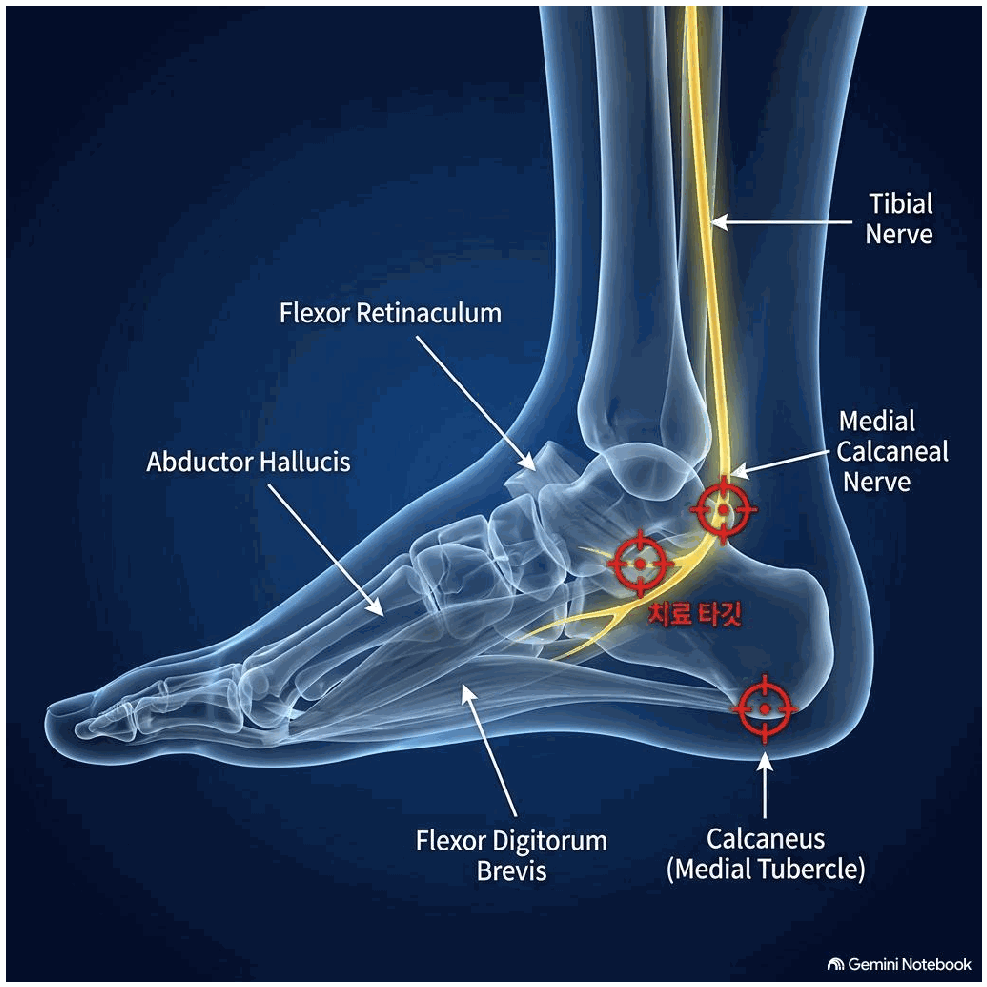
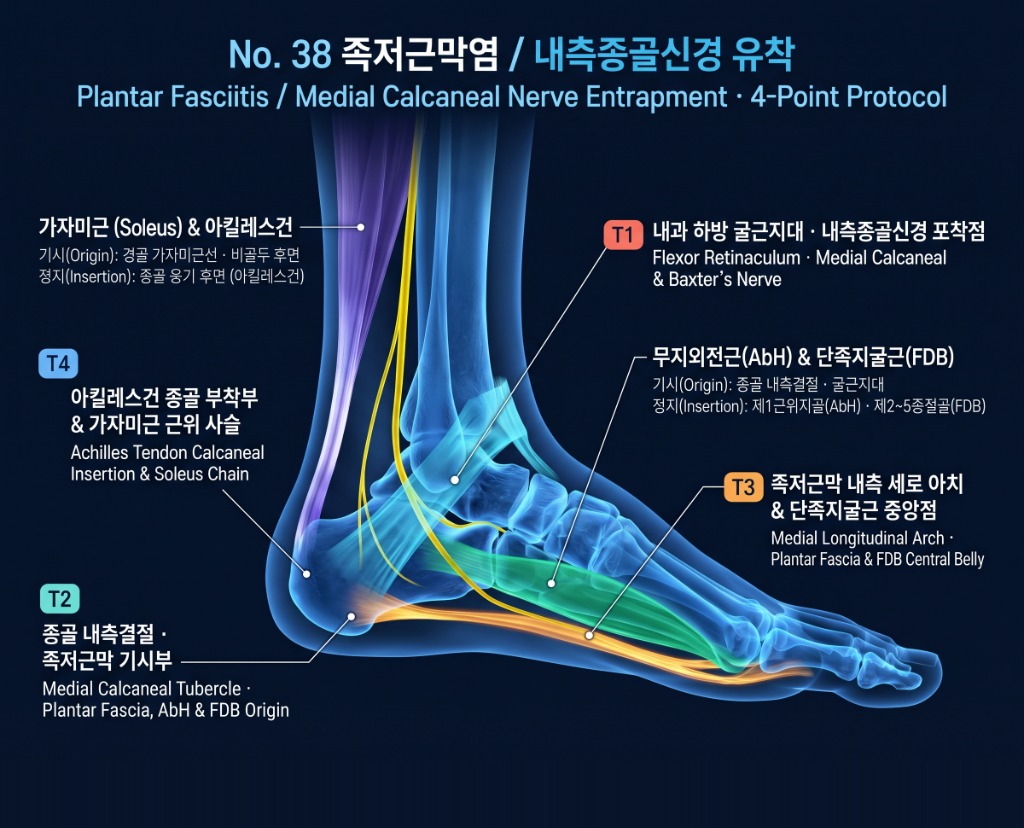
feat(healing-app): upgrade No.38 plantar fasciitis & medial calcaneal nerve plate and align T1-T4 pins

diff --git a/healing-app/js/pain_data.js b/healing-app/js/pain_data.js
@@ -4800,7 +4800,7 @@ window.PAIN_CONDITIONS = [
     ],
     "title": {
       "ko": "족저근막염 / 내측종골신경 유착",
-      "en": "Plantar Fasciitis / Medial Calcaneal Nerve Entrapment"
+      "en": "Plantar Fasciitis / Medial Calcaneal Nerve Entrapment (4-Point Protocol)"
     },
     "symptoms": {
       "ko": "아침에 자고 일어나 첫발 내딛을 때 발뒤꿈치 바닥에 전기 가 오듯 극심한 통증.",
@@ -4811,12 +4811,12 @@ window.PAIN_CONDITIONS = [
       "en": "Entrapment of medial calcaneal nerve under flexor retinaculum, or soleus c combined with flexor digitorum brevis / abductor hallucis TTP inducing calcaneal plantar periostitis."
     },
     "targetTissues": {
-      "ko": "굴근지대(Flexor retinaculum), 단지굴근(FDB), 무지외 전근(AbH), 가자미근.",
-      "en": "Flexor retinaculum, Flexor digitorum brevis (FDB), Abductor hallucis (AbH), Soleus."
+      "ko": "내과 하방 굴근지대·내측종골신경 및 박스터신경(Baxter's Nerve), 종골 내측결절 족저근막·무지외전근(AbH)·단족지굴근(FDB) 기시부, 족저근막 내측 세로 아치, 가자미근(Soleus) 및 아킬레스건 종골 부착부.",
+      "en": "Flexor retinaculum & medial calcaneal / Baxter's nerve, medial calcaneal tubercle (plantar fascia, AbH & FDB origin), medial longitudinal arch & FDB belly, Achilles tendon calcaneal insertion & soleus chain."
     },
     "palpation": {
-      "ko": "내측 복사뼈 하방 굴근지대 부위 및 종골 내측 돌기 부근 압통점.",
-      "en": "Flexor retinaculum below medial malleolus and tender points near medial calcaneal tuberosity."
+      "ko": "① 내과 하방 굴근지대·내측종골신경 포착점 ② 종골 내측결절 족저근막 기시부 ③ 족저근막 내측 세로 아치 & 단족지굴근 중앙점 ④ 아킬레스건 종골 부착부 & 가자미근 근위 사슬.",
+      "en": "Flexor retinaculum medial calcaneal nerve exit, medial calcaneal tubercle plantar fascia origin, medial longitudinal arch & FDB belly, and Achilles calcaneal insertion."
     },
     "clinicalCase": {
       "ko": "아침 기상 후 첫발을 디딜 때 발뒤꿈치 바닥에 전기가 찌릿하며 딛기 힘들던 만성 족저근막염 사례. 내측 복사뼈 하방 굴근지대(Flexor Retinaculum) 및 내측종골신경 유착 부위에 NovaCell Therapy를 적용하여 신경 유착을 해소하고 첫발 통증 완전 소실.",
@@ -4827,73 +4827,73 @@ window.PAIN_CONDITIONS = [
       {
         "code": "T1",
         "color": "#ff334b",
-        "x": 69.1,
-        "y": 55.2,
+        "x": 44.4,
+        "y": 57.9,
         "role": {
           "ko": "주 신경포착점",
           "en": "Primary Nerve Entrapment"
         },
         "name": {
-          "ko": "T1: 내과 하방 굴근지대 내측종골신경(Medial Calcaneal N.) 및 족저방형근 포착점",
-          "en": "T1: Inframalleolar Medial Calcaneal Nerve & Baxter's Nerve Point"
+          "ko": "T1: 내과 하방 굴근지대 · 내측종골신경 포착점 (Baxter's Nerve)",
+          "en": "T1: Flexor Retinaculum · Medial Calcaneal & Baxter's Nerve"
         },
         "desc": {
-          "ko": "[표적 해부] 안쪽 복사뼈 하후방 굴근지대 중앙부에서 분지하는 내측종골신경 및 제1외측족저신경(Baxter 신경)·족저방형근.\n[촉지 및 시술] 내과와 뒤꿈치 사이 안쪽 측면 압통점. 아침 첫발을 디딜 때 뒤꿈치가 찢어질 듯 아픈 신경포착성 족저근막염의 제1 스위치입니다.",
-          "en": "Medial calcaneal nerve and Baxter's nerve passage beneath flexor retinaculum and abductor hallucis."
+          "ko": "[표적 해부] 발목 내과(안쪽 복숭아뼈) 후하방 굴근지대(Flexor Retinaculum)와 무지외전근(AbH) 근막 아래를 통과하는 내측종골신경(Medial Calcaneal Nerve) 및 박스터신경(Baxter's Nerve) 포착점.\n[촉지 및 시술] 내과 뒤아래 오목한 족근관 하연 압통점. 만성 발뒤꿈치 찌릿함과 야간 작열통을 유발하는 신경 유착을 원천 감압합니다.",
+          "en": "Flexor retinaculum and deep abductor hallucis fascia where the medial calcaneal and Baxter's nerves are entrapped."
         }
       },
       {
         "code": "T2",
         "color": "#00f5d4",
-        "x": 77.2,
-        "y": 71.8,
+        "x": 34.3,
+        "y": 74.4,
         "role": {
           "ko": "힘줄·골막 부착점",
-          "en": "Tendon & Periosteal Target"
+          "en": "Fascial Origin & Periosteal Target"
         },
         "name": {
-          "ko": "T2: 종골 내측결절(Medial Calcaneal Tubercle) 족저근막 기시부 골막 부착점",
-          "en": "T2: Medial Calcaneal Tubercle Plantar Fascia Origin Periosteal Contact"
+          "ko": "T2: 종골 내측결절 · 족저근막 기시부 (AbH & FDB Origin)",
+          "en": "T2: Medial Calcaneal Tubercle · Plantar Fascia, AbH & FDB Origin"
         },
         "desc": {
-          "ko": "[표적 해부] 발뒤꿈치 바닥 앞쪽 종골 내측돌기의 족저근막·모지외전근(AbH)·단족지굴근(FDB) 공동 골막 기시부.\n[촉지 및 시술] 뒤꿈치 바닥 중앙에서 약간 안쪽 뼈 경계부 골막 접촉(HP-PF-01). 종골 골극 주위 미세파열과 골막 염증을 직접 치유합니다.",
-          "en": "Periosteal origin of plantar aponeurosis, AbH, and FDB at medial tubercle of calcaneus."
+          "ko": "[표적 해부] 발뒤꿈치 뼈(종골) 바닥 앞안쪽 종골 내측결절(Medial Calcaneal Tubercle)의 족저근막(Plantar Fascia)·무지외전근(AbH)·단족지굴근(FDB) 공동 기시부 골막.\n[촉지 및 시술] 뒤꿈치 중앙에서 약간 안쪽 뼈 경계부 압통점. 아침 기상 후 첫 발을 디딜 때 찢어지는 듯한 뒤꿈치 통증의 제1 핵심 타깃입니다.",
+          "en": "Primary origin of the plantar fascia, abductor hallucis, and flexor digitorum brevis at the medial calcaneal tubercle; key target for first-step morning heel pain."
         }
       },
       {
         "code": "T3",
         "color": "#ff9f43",
-        "x": 38.0,
-        "y": 62.0,
+        "x": 57.5,
+        "y": 76.7,
         "role": {
           "ko": "심부 근복·근막점",
-          "en": "Deep Myofascial Trigger Point"
+          "en": "Arch Fascia & FDB Belly Target"
         },
         "name": {
-          "ko": "T3: 족저근막 내측 세로 아치(Medial Longitudinal Arch) 및 단족지굴근 중앙점",
-          "en": "T3: Plantar Fascia Medial Arch & Flexor Digitorum Brevis Belly"
+          "ko": "T3: 족저근막 내측 세로 아치 & 단족지굴근 중앙점",
+          "en": "T3: Medial Longitudinal Arch · Plantar Fascia & FDB Central Belly"
         },
         "desc": {
-          "ko": "[표적 해부] 발바닥 중앙 내측 족궁을 가로지르는 족저근막 중심띠 및 단족지굴근·족저방형근 근복(HP-PF-02).\n[촉지 및 시술] 발가락을 뒤로 젖힐 때 발바닥에 팽팽하게 만져지는 근막 줄기 압통점.",
-          "en": "Central cord of plantar fascia and flexor digitorum brevis belly along medial longitudinal arch."
+          "ko": "[표적 해부] 발바닥 내측 세로 아치(Medial Longitudinal Arch)를 지지하는 족저근막 내측 다발과 바로 위 심층 단족지굴근(FDB) 중앙 근복.\n[촉지 및 시술] 엄지발가락을 위로 젖혔을 때 발바닥 안쪽에 팽팽하게 도드라지는 띠(족저근막) 중앙부. 발바닥 전체의 당김과 아치 피로통을 부드럽게 이완합니다.",
+          "en": "Central medial band of the plantar fascia and underlying FDB belly along the medial longitudinal arch; releases plantar tension and arch fatigue."
         }
       },
       {
         "code": "T4",
         "color": "#38bdf8",
-        "x": 62.0,
-        "y": 38.0,
+        "x": 29.9,
+        "y": 69.3,
         "role": {
-          "ko": "힘줄·골막 부착점",
-          "en": "Tendon & Periosteal Target"
+          "ko": "기시부·근위 사슬점",
+          "en": "Achilles & Soleus Proximal Chain"
         },
         "name": {
-          "ko": "T4: 아킬레스건 종골 부착부 및 가자미근 근위 사슬 타깃",
-          "en": "T4: Achilles-Calcaneal Junction & Soleus Myofascial Chain Point"
+          "ko": "T4: 아킬레스건 종골 부착부 & 가자미근 근위 사슬",
+          "en": "T4: Achilles Tendon Calcaneal Insertion & Soleus Chain"
         },
         "desc": {
-          "ko": "[표적 해부] 아킬레스건과 족저근막이 종골 골막을 사이에 두고 연결되는 후하방 전환점(HP-PF-03).\n[촉지 및 시술] 종아리(가자미근)-아킬레스건-족저근막으로 이어지는 후방 장력 사슬을 이완합니다.",
-          "en": "Achilles-to-plantar-fascia calcaneal periosteal continuity point."
+          "ko": "[표적 해부] 종골 융기 후면의 아킬레스건 정지부 골막과 근위부 가자미근(Soleus · 기시: 경골 가자미근선·비골두 후면)에서 종골 골막을 통해 족저근막으로 이어지는 근막 사슬.\n[촉지 및 시술] 발뒤꿈치 뒤쪽 아킬레스건 부착 경계부와 종아리 하부. 아킬레스건-종골-족저근막 후방 사슬의 과긴장을 풀어 족저근막염 재발을 근본 차단합니다.",
+          "en": "Achilles tendon insertion on the posterior calcaneus linked mechanically to the plantar fascia via the soleus chain; prevents recurrent heel traction."
         }
       }
     ],
